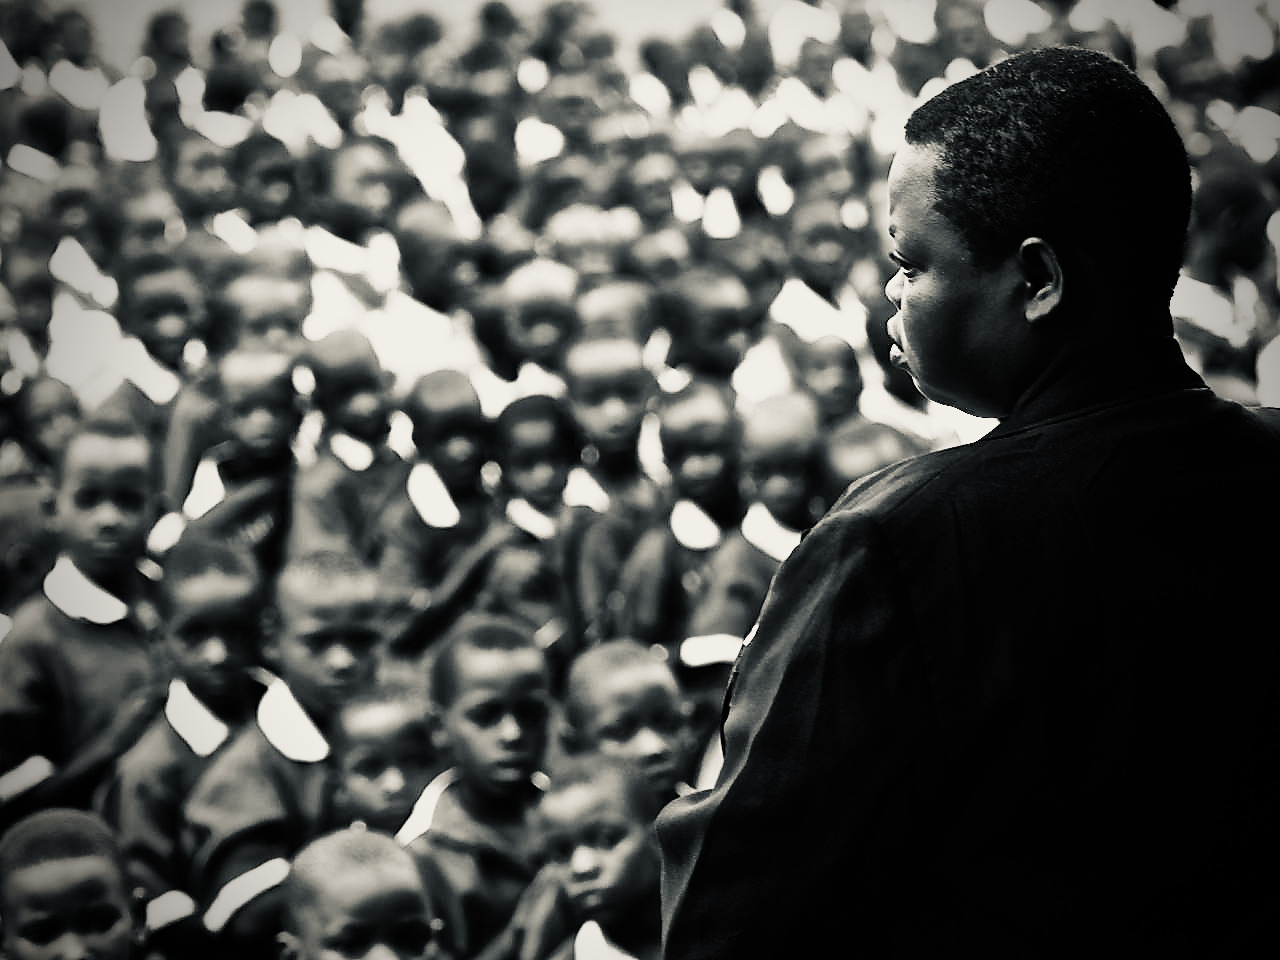
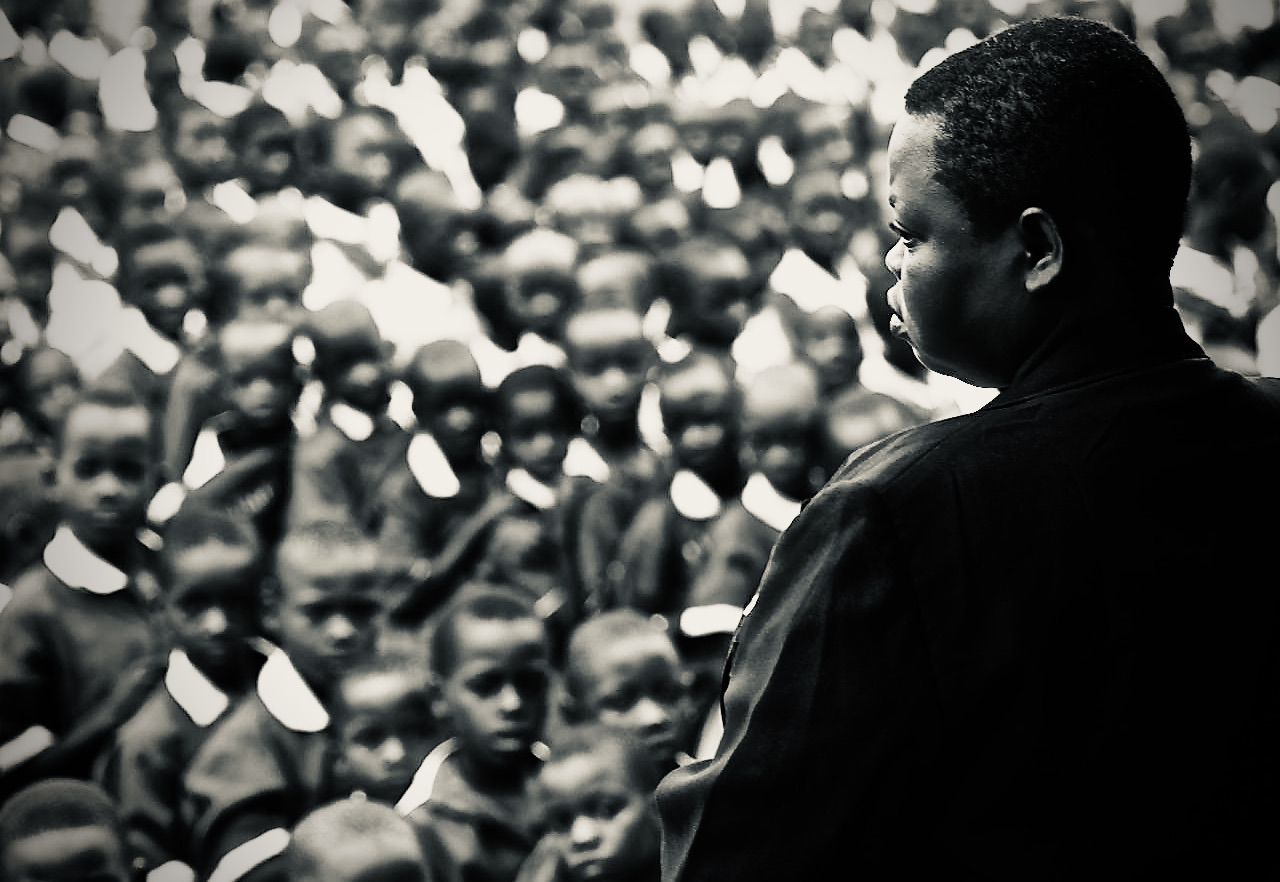
Further style index page.

diff --git a/index.html b/index.html
@@ -16,8 +16,6 @@
             <p style="text-align: justify;">“Photography is one of the great paradoxes in the history of mankind. It is, at its core, nothing more than a single image captured and committed to film. A lowly, single image – less than a fraction of a fraction of one second. Yet, if it is done well, that single image can capture the essence - the very meaning - of what it is to be alive. And in doing so, that moment, and all the significance that it carries, remains with us forever. No matter how softly, nor how faintly trodden it might be, a photograph has the ability to capture the soul of every being and beast that walks this strange and meandering path through the world. It makes us realise we do not walk this path alone.”</p>  
             <br>
             <p style="text-align: right;">– Willem Platerink, 2017</p>
-            <br>
-        
             <a href="menu.html">
                 <h1 id="enter-click" style="text-align: left;">ENTER →</h1> 
             </a>

diff --git a/assets/css/style.css b/assets/css/style.css
@@ -39,7 +39,7 @@ a:hover {
     
     display: block;
     margin: auto;
-    width: 85%;
+    width: 80%;
     margin-top: 2%;
     margin-bottom: 2%;
     height: auto;
@@ -59,10 +59,10 @@ a:hover {
 .index-text {
 
     position: absolute;
-    font-size: 97%;
-    margin-left: 66%;
-    margin-right: 10%;
-    margin-top: 36%;
+    font-size: 90%;
+    margin-left: 65%;
+    margin-right: 12%;
+    margin-top: 32%;
     color: rgb(214, 209, 209);
     
 }
